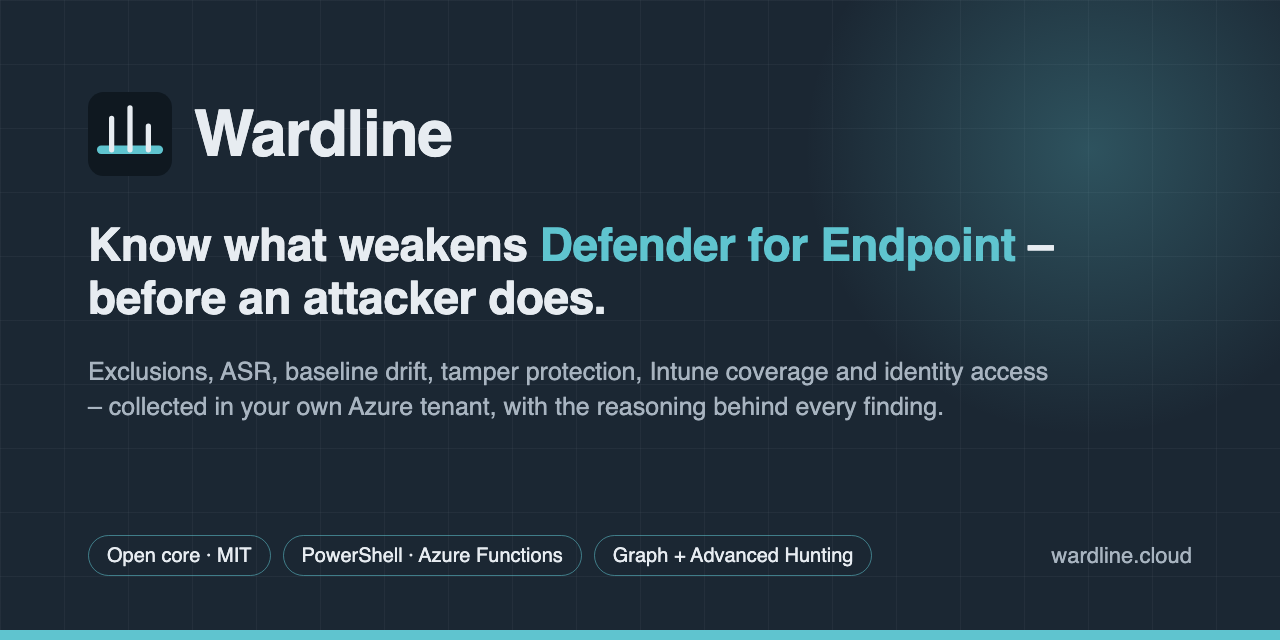
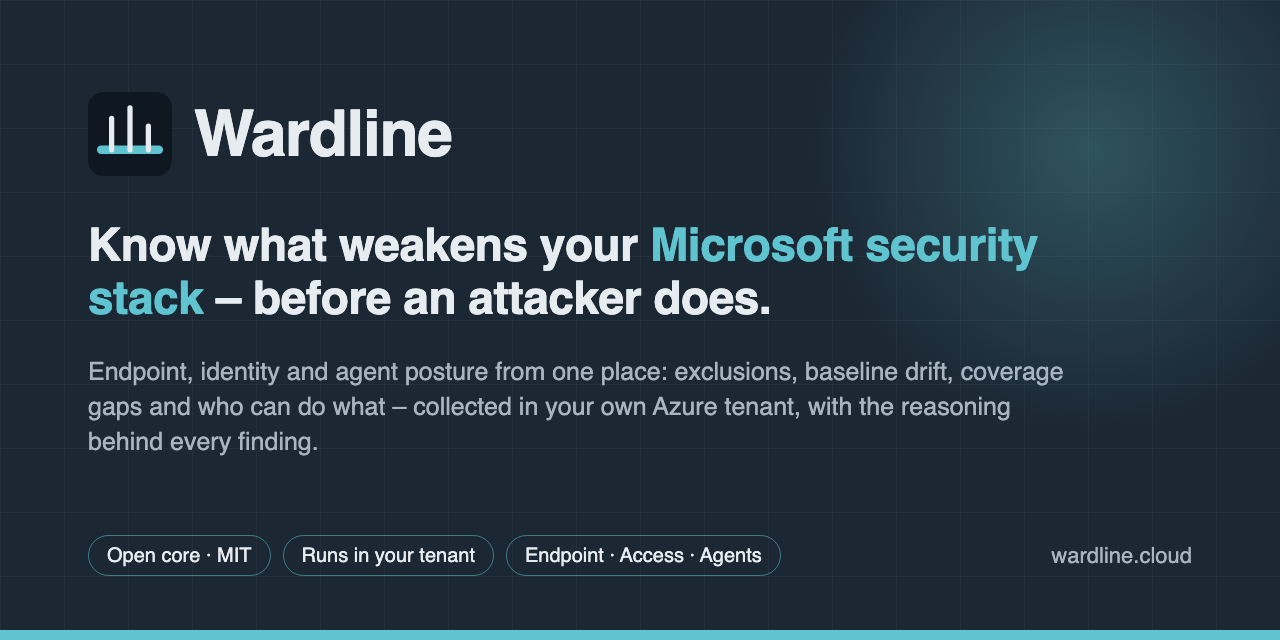
Social preview: product-agnostic wording

diff --git a/.github/social-preview.html b/.github/social-preview.html
@@ -23,11 +23,11 @@
     <svg width="84" height="84" viewBox="0 0 32 32"><rect width="32" height="32" rx="6" fill="#0f1820"/><path d="M5 22h22" stroke="#5FC4CF" stroke-width="3.2" stroke-linecap="round"/><path d="M9 22V10M16 22V6M23 22V13" stroke="#E7ECF1" stroke-width="2" stroke-linecap="round"/></svg>
     <h1>Wardline</h1>
   </div>
-  <div class="claim">Know what weakens <b>Defender for Endpoint</b> – before an attacker does.</div>
-  <div class="sub">Exclusions, ASR, baseline drift, tamper protection, Intune coverage and identity access – collected in your own Azure tenant, with the reasoning behind every finding.</div>
+  <div class="claim">Know what weakens your <b>Microsoft security stack</b> – before an attacker does.</div>
+  <div class="sub">Endpoint, identity and agent posture from one place: exclusions, baseline drift, coverage gaps and who can do what – collected in your own Azure tenant, with the reasoning behind every finding.</div>
 </div>
 <div class="foot">
-  <div class="pills"><span class="pill">Open core · MIT</span><span class="pill">PowerShell · Azure Functions</span><span class="pill">Graph + Advanced Hunting</span></div>
+  <div class="pills"><span class="pill">Open core · MIT</span><span class="pill">Runs in your tenant</span><span class="pill">Endpoint · Access · Agents</span></div>
   <div>wardline.cloud</div>
 </div>
 <div class="bar"></div>
